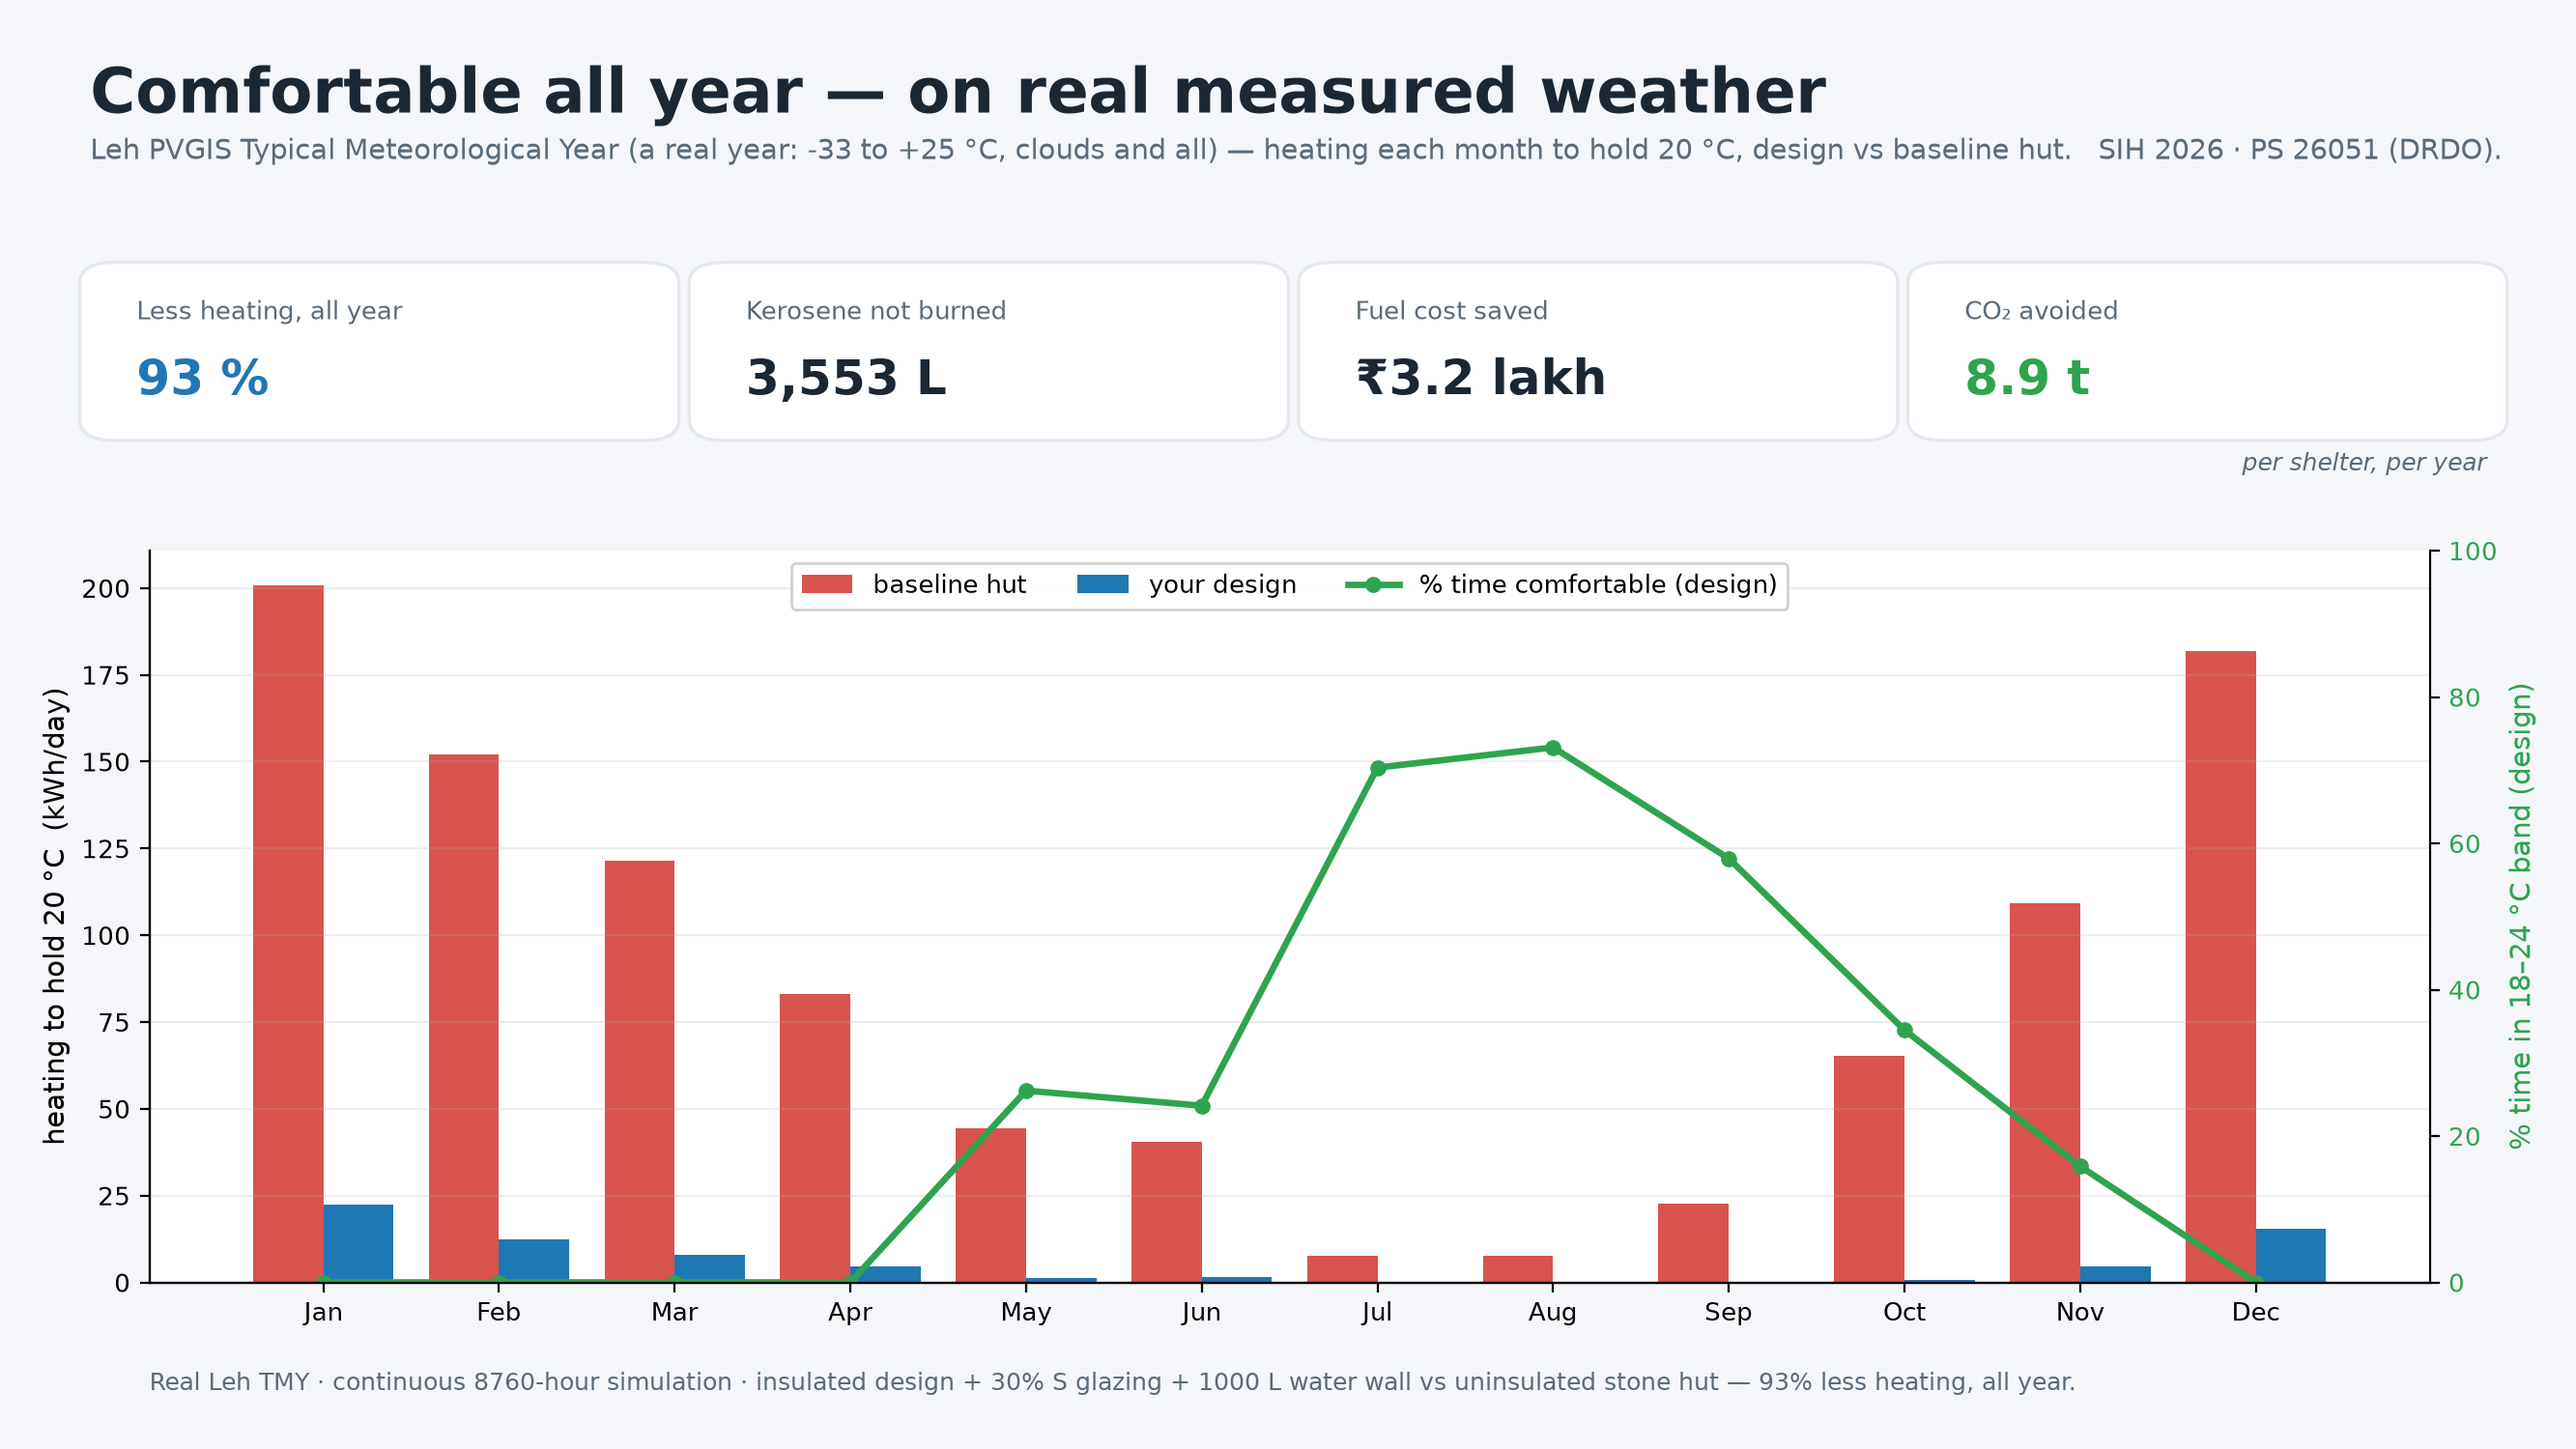
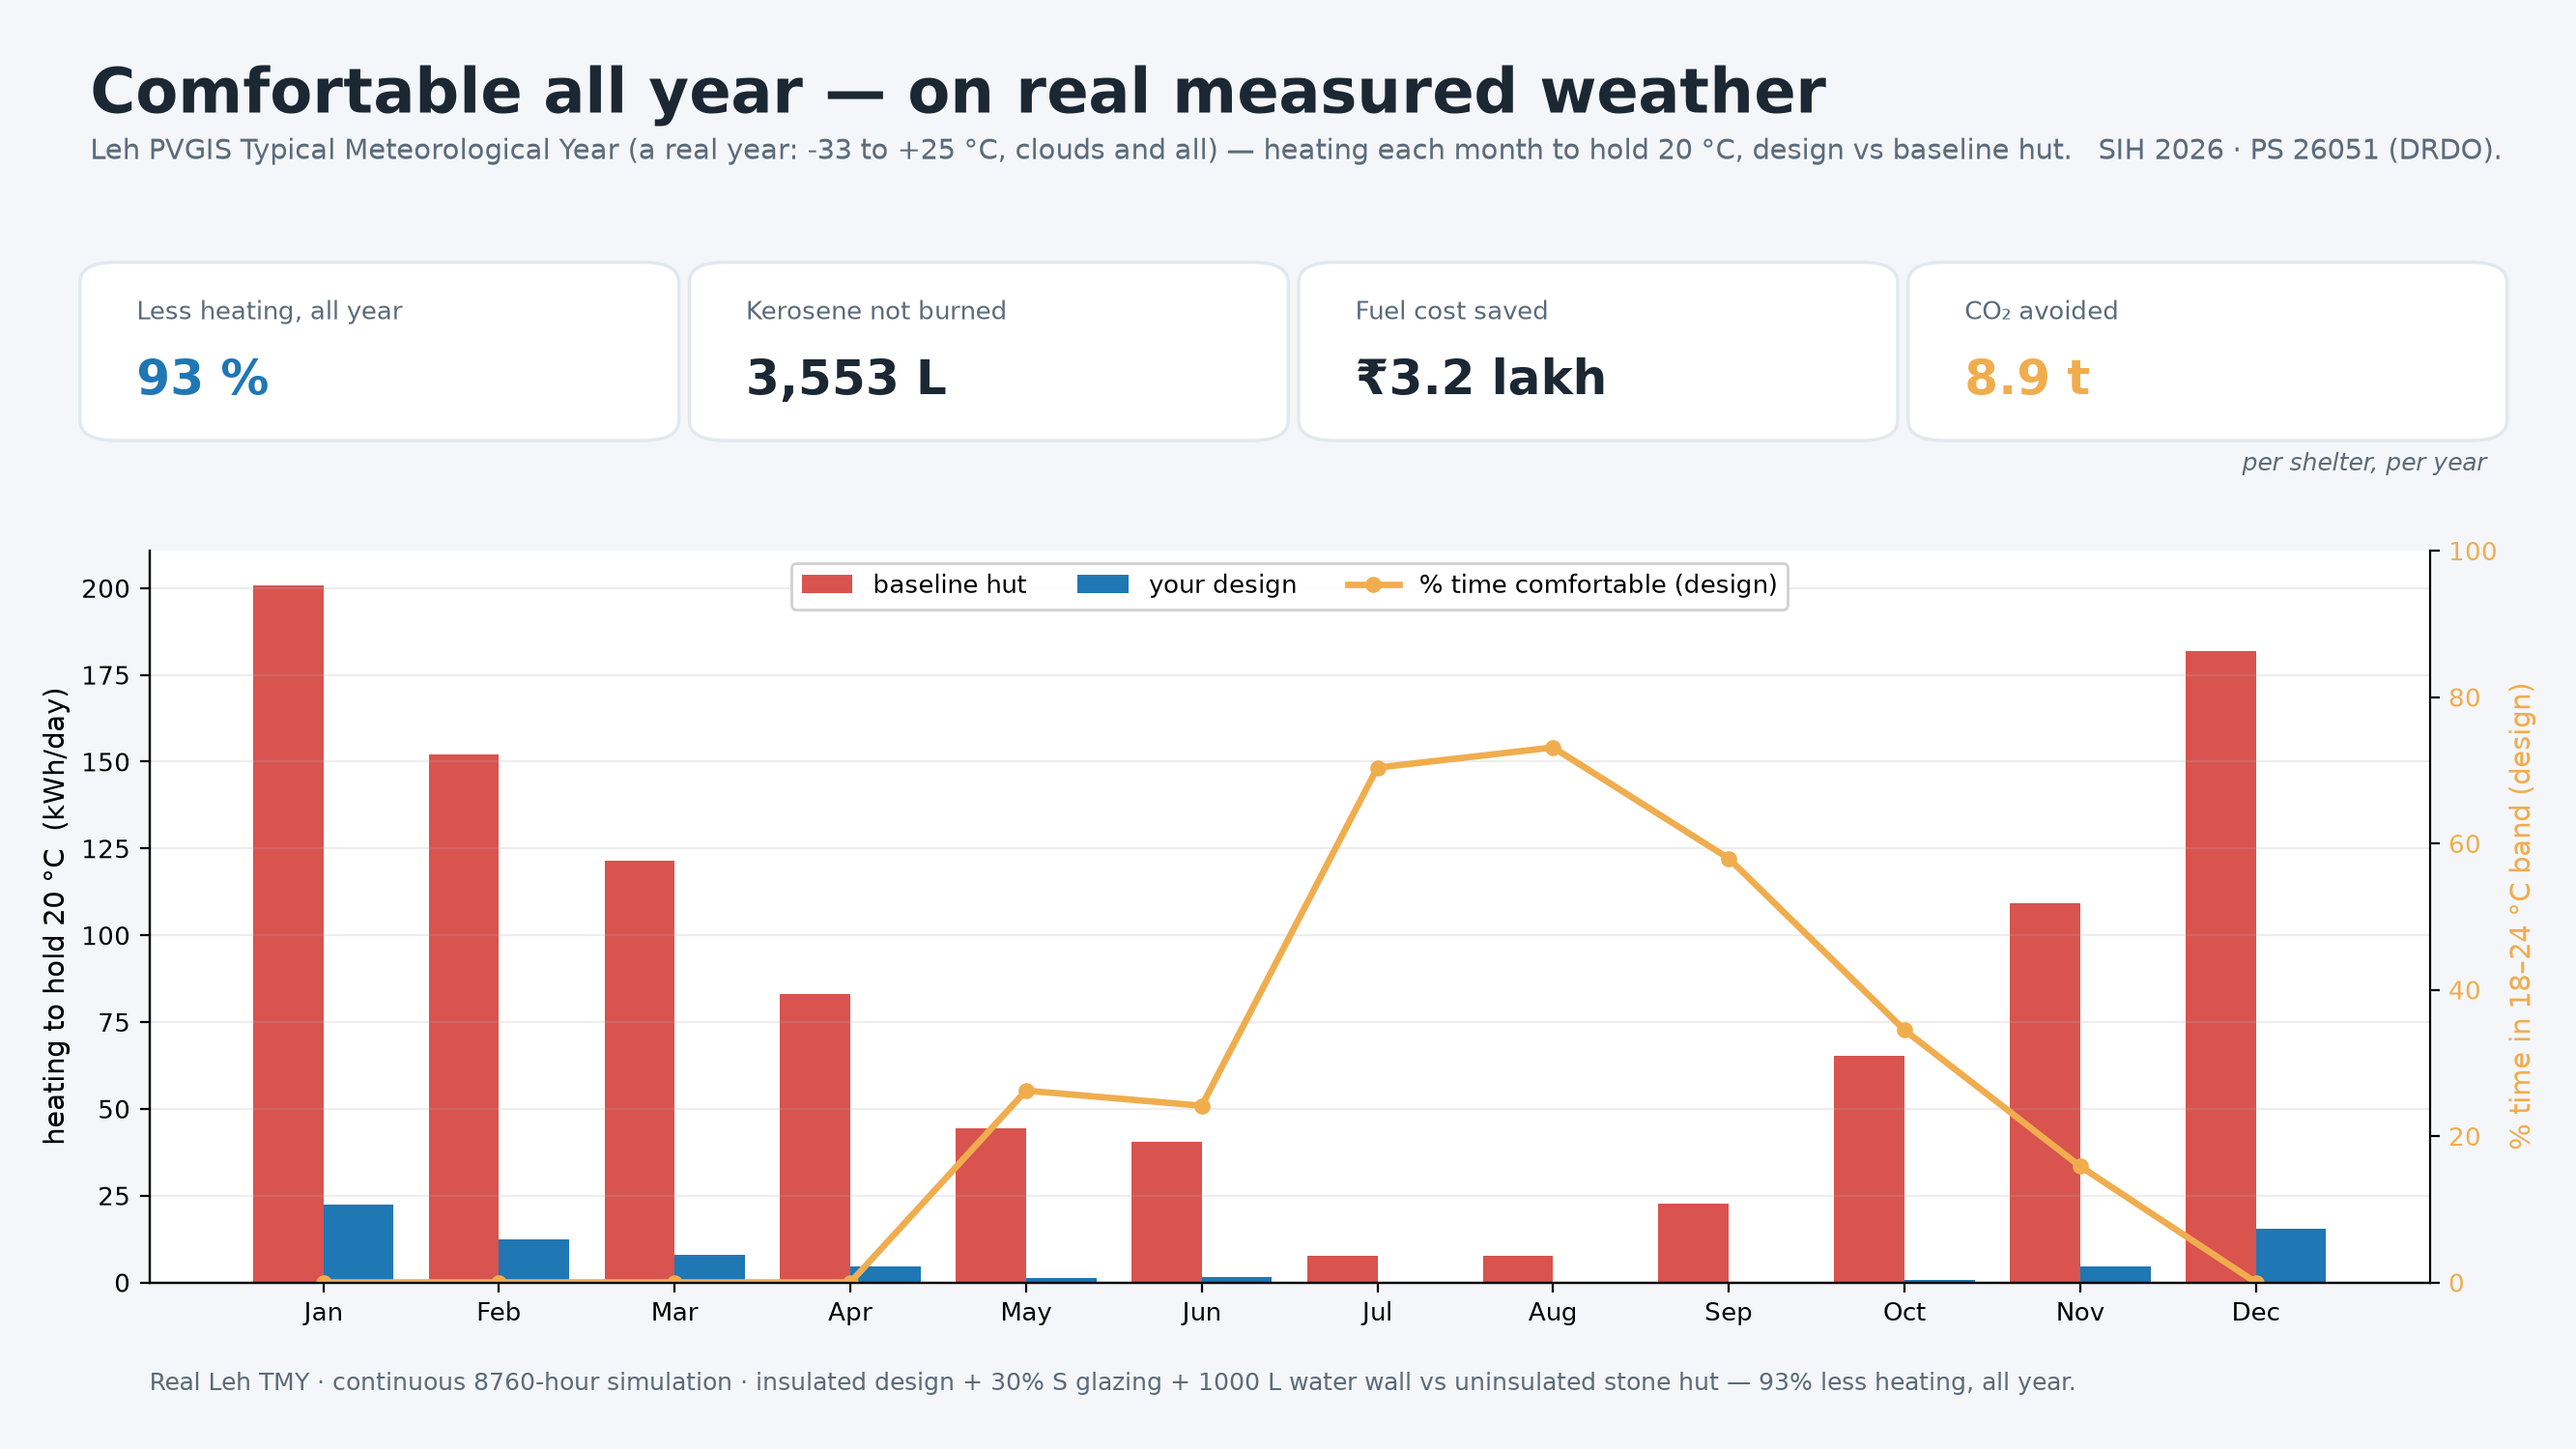
Fix color consistency across demo PNGs and script
- seasonal.png: comfort line green(#2ea44f) -> orange(#f0ad4e) to match Streamlit
- run_demo.py: water-wall store line blue(#1f77b4) -> orange(#f0ad4e)
- demo-script.md: 'green line' -> 'orange line' to match actual dashboard
- Regenerated docs/demo_curve.png and docs/seasonal.png with corrected colors
- Added docs/validation_energyplus.png (EnergyPlus cross-validation)

diff --git a/scripts/make_seasonal_shot.py b/scripts/make_seasonal_shot.py
@@ -31,7 +31,7 @@ DIM = [31, 28, 31, 30, 31, 30, 31, 31, 30, 31, 30, 31]      # 1990 (coerce_year)
 MONTHS = ["Jan", "Feb", "Mar", "Apr", "May", "Jun",
           "Jul", "Aug", "Sep", "Oct", "Nov", "Dec"]
 
-C_BASE, C_DESIGN, C_COMFORT = "#d9534f", "#1f77b4", "#2ea44f"
+C_BASE, C_DESIGN, C_MASS = "#d9534f", "#1f77b4", "#f0ad4e"
 INK, SUB, ACCENT = "#1b2733", "#5b6b7a", "#0070C0"
 
 BARE_ROOF = geometry.make_construction("Bare timber roof", [("Softwood timber (pine)", 0.04)])
@@ -113,7 +113,7 @@ def main():
         ("Less heating, all year", f"{r['saving']:.0f} %", C_DESIGN),
         ("Kerosene not burned", f"{fi.litres:,.0f} L", INK),
         ("Fuel cost saved", f"₹{fi.inr/1e5:.1f} lakh", INK),
-        ("CO₂ avoided", f"{fi.co2_kg/1000:.1f} t", C_COMFORT),
+        ("CO₂ avoided", f"{fi.co2_kg/1000:.1f} t", C_MASS),
     ]
     x0, kw, kgap, ky, kh = 0.035, 0.2245, 0.012, 0.700, 0.115
     for i, (lab, val, col) in enumerate(cards):
@@ -137,11 +137,11 @@ def main():
     ax.tick_params(labelsize=9.5)
 
     axc = ax.twinx()
-    axc.plot(x, r["c"], color=C_COMFORT, lw=2.4, marker="o", ms=5,
+    axc.plot(x, r["c"], color=C_MASS, lw=2.4, marker="o", ms=5,
              label="% time comfortable (design)")
-    axc.set_ylabel("% time in 18–24 °C band (design)", fontsize=10.5, color=C_COMFORT)
+    axc.set_ylabel("% time in 18–24 °C band (design)", fontsize=10.5, color=C_MASS)
     axc.set_ylim(0, 100)
-    axc.tick_params(axis="y", labelsize=9.5, labelcolor=C_COMFORT)
+    axc.tick_params(axis="y", labelsize=9.5, labelcolor=C_MASS)
     for s in ("top",):
         axc.spines[s].set_visible(False)
 

diff --git a/scripts/run_demo.py b/scripts/run_demo.py
@@ -120,7 +120,7 @@ def main():
     ax.axhline(0, color="#bbb", lw=0.8)                       # freezing line
     ax.plot(xb, b.T_out, color="#888", lw=1.3, ls="--", label="ambient air")
     if wall is not None:
-        ax.plot(xp, wall, color="#1f77b4", lw=1.3, ls="-.", alpha=0.5,
+        ax.plot(xp, wall, color="#f0ad4e", lw=1.3, ls="-.", alpha=0.5,
                 label="water-wall store (charging)")
     ax.plot(xb, b.T_in, color="#d9534f", lw=2.2, label="indoor — baseline hut")
     ax.plot(xp, p.T_in, color="#1f77b4", lw=2.6, label="indoor — passive design")

diff --git a/docs/demo-script.md b/docs/demo-script.md
@@ -90,7 +90,7 @@ the **Seasonal** tab.*
 
 > "And this isn't just an idealised clear day. Flip to **real measured weather** — a
 > Typical Meteorological Year for Leh, clouds and all — and open the **Seasonal** tab.
-> **Every month of a real year:** red is the baseline hut, blue is our design, the green
+> **Every month of a real year:** red is the baseline hut, blue is our design, the orange
 > line is time spent comfortable. Over the full year it needs **~93% less heating** — which is
 > **about 3,550 litres of kerosene, ₹3.2 lakh and 8.9 tonnes of CO₂ saved per shelter,
 > every year.** That's the number DRDO actually budgets in."
